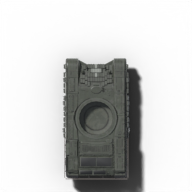
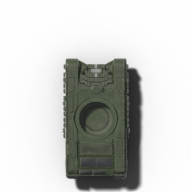
feat: render the T-72B3 without its slat-armour cage, in olive paint
The Sketchfab model carries a turret cage and rear slats (material
reshotki) that hid the rounded turret and Kontakt-5 horseshoe from above,
and its textures are neutral grey. render-sprite.json gains exclude (delete
meshes before rendering) and tint (multiply textured paint by a colour);
the tank drops Object_15/16 and is tinted olive. Attribution notes the
changes. Compare sheet regenerated.

Refs #286

Claude-Session: https://claude.ai/code/session_013cBup2uc3dA6LrnARKwnbU

Changed region(s): [[0.3125, 0.6875, 0.7812, 1.0], [0.6562, 0.7188, 0.6875, 0.8438]]

diff --git a/scripts/render-sprite.py b/scripts/render-sprite.py
@@ -11,6 +11,10 @@ Three PNGs per model in <out>/render-<id>/, all framed by the same camera so the
   <id>-hull.png    everything but the turret, with the hull's shadow
   <id>-turret.png  the turret (and barrels) alone, no shadow, for the game to rotate
 
+A model's optional `exclude` lists meshes to delete before rendering (e.g. add-on slat armour that hides the
+silhouette). `tint` multiplies the textured paint by `color` (minus materials named in `skip`), for a model
+painted in the wrong colour.
+
 Setup:  python3 -m venv .venv-art && .venv-art/bin/pip install bpy==5.0.1
 Run:    .venv-art/bin/python scripts/render-sprite.py [--only <id>] [--out assets]
 """
@@ -73,6 +77,23 @@ def tint_untextured(color: list[float]) -> None:
         bsdf = mat.node_tree.nodes.get("Principled BSDF") if mat.node_tree else None
         if bsdf and not bsdf.inputs["Base Color"].links:
             bsdf.inputs["Base Color"].default_value = (*color, 1.0)
+
+
+def tint_paint(color: list[float], skip: list[str]) -> None:
+    """Multiply every textured base colour by `color` (a grey-painted model turned olive); `skip` keeps materials."""
+    for mat in bpy.data.materials:
+        tree = mat.node_tree
+        bsdf = tree.nodes.get("Principled BSDF") if tree else None
+        if not bsdf or not bsdf.inputs["Base Color"].links or any(mat.name.startswith(s) for s in skip):
+            continue
+        link = bsdf.inputs["Base Color"].links[0]
+        mix = tree.nodes.new("ShaderNodeMix")
+        mix.data_type = "RGBA"
+        mix.blend_type = "MULTIPLY"
+        mix.inputs["Factor"].default_value = 1.0
+        mix.inputs["B"].default_value = (*color, 1.0)
+        tree.links.new(link.from_socket, mix.inputs["A"])
+        tree.links.new(mix.outputs["Result"], bsdf.inputs["Base Color"])
 
 
 def place_model(spec: dict) -> None:
@@ -172,6 +193,10 @@ def render(path: Path, cfg: dict) -> None:
 def render_model(cfg: dict, spec: dict, cache: Path, out: Path) -> None:
     bpy.ops.wm.read_factory_settings(use_empty=True)
     bpy.ops.import_scene.gltf(filepath=str(download(spec["sketchfab"], cache)))
+    for name in spec.get("exclude", []):
+        bpy.data.objects.remove(bpy.data.objects[name], do_unlink=True)
+    if "tint" in spec:
+        tint_paint(spec["tint"]["color"], spec["tint"].get("skip", []))
     if "untexturedColor" in spec:
         tint_untextured(spec["untexturedColor"])
     place_model(spec)

diff --git a/CREDITS.md b/CREDITS.md
@@ -70,7 +70,7 @@ Third-party assets in this game. Generated from `assets/manifest.json` by `npm r
 - Author: MirzaArrafiERV_45
 - Source: <https://sketchfab.com/3d-models/dfe130dfce724c30958cec51f2bd86b7>
 - License: CC-BY-4.0
-- Attribution: "T-72B3 Main Battle Tank" by MirzaArrafiERV_45 (sketchfab.com), CC-BY 4.0, rendered top-down
+- Attribution: "T-72B3 Main Battle Tank" by MirzaArrafiERV_45 (sketchfab.com), CC-BY 4.0, rendered top-down, slat armour removed, repainted olive
 - Downloaded: 2026-11-02
 - Files: `assets/render-russia-tank/**`
 
